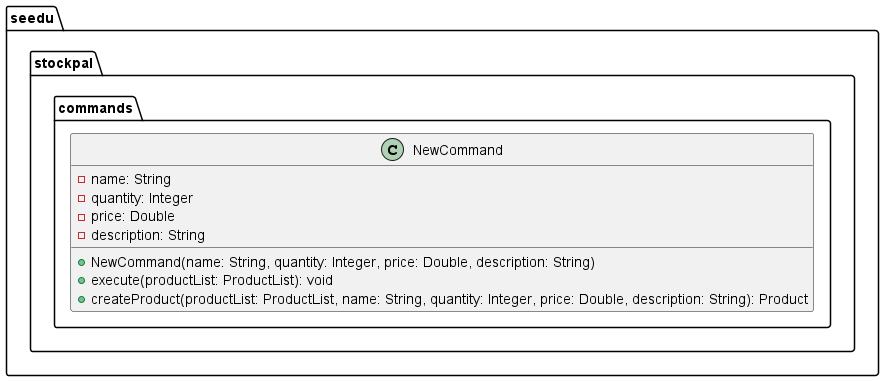
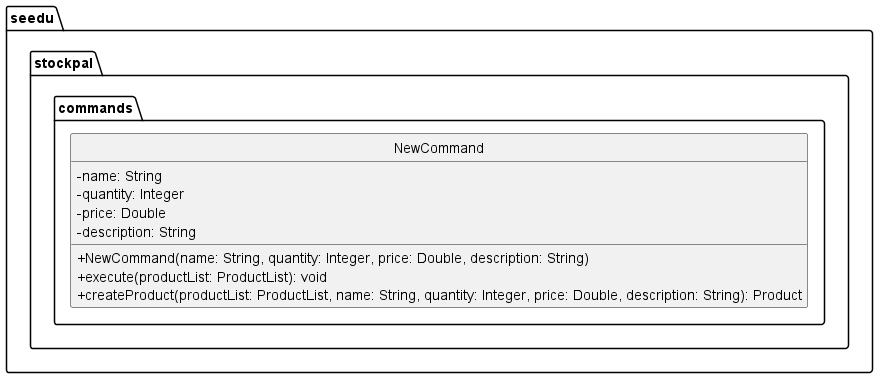
Updated find command to search substrings, fix output of history command, do testing for find command, changed DG

diff --git a/src/test/java/seedu/stockpal/commands/NewCommandTest.java b/src/test/java/seedu/stockpal/commands/NewCommandTest.java
@@ -8,6 +8,7 @@ import seedu.stockpal.exceptions.StockPalException;
 import static org.junit.jupiter.api.Assertions.assertEquals;
 import static org.junit.jupiter.api.Assertions.assertNull;
 
+//@@author EdmundTangg
 public class NewCommandTest {
     public ProductList productList;
 
@@ -22,10 +23,10 @@ public class NewCommandTest {
                 2.00, "ingredient");
         userInput.execute(productList);
 
-        assertEquals("chocolate",productList.getProducts().get(0).getName().getName());
-        assertEquals(100,productList.getProducts().get(0).getQuantity().getQuantity());
-        assertEquals(2.00,productList.getProducts().get(0).getPrice().getPrice());
-        assertEquals("ingredient",productList.getProducts().get(0).getDescription().getDescription());
+        assertEquals("chocolate", productList.getProducts().get(0).getName().getName());
+        assertEquals(100, productList.getProducts().get(0).getQuantity().getQuantity());
+        assertEquals(2.00, productList.getProducts().get(0).getPrice().getPrice());
+        assertEquals("ingredient", productList.getProducts().get(0).getDescription().getDescription());
         assertEquals(1, productList.getProducts().get(0).getPid().getPid());
     }
 
@@ -35,8 +36,8 @@ public class NewCommandTest {
                 100, null, null);
         userInput.execute(productList);
 
-        assertEquals("chocolate",productList.getProducts().get(0).getName().getName());
-        assertEquals(100,productList.getProducts().get(0).getQuantity().getQuantity());
+        assertEquals("chocolate", productList.getProducts().get(0).getName().getName());
+        assertEquals(100, productList.getProducts().get(0).getQuantity().getQuantity());
         assertNull(productList.getProducts().get(0).getPrice().getPrice());
         assertNull(productList.getProducts().get(0).getDescription().getDescription());
         assertEquals(1, productList.getProducts().get(0).getPid().getPid());
@@ -52,11 +53,10 @@ public class NewCommandTest {
                 null, null);
         userInput2.execute(productList);
 
-        assertEquals("chocolate",productList.products.get(0).getName().getName());
+        assertEquals("chocolate", productList.products.get(0).getName().getName());
         assertEquals(1, productList.products.get(0).getPid().getPid());
 
-        assertEquals("strawberry",productList.products.get(1).getName().getName());
+        assertEquals("strawberry", productList.products.get(1).getName().getName());
         assertEquals(2, productList.products.get(1).getPid().getPid());
     }
-
 }

diff --git a/src/test/java/seedu/stockpal/commands/FindCommandTest.java b/src/test/java/seedu/stockpal/commands/FindCommandTest.java
@@ -1,0 +1,59 @@
+package seedu.stockpal.commands;
+
+import org.junit.jupiter.api.BeforeEach;
+import org.junit.jupiter.api.Test;
+import seedu.stockpal.data.ProductList;
+import seedu.stockpal.exceptions.StockPalException;
+
+import java.io.ByteArrayOutputStream;
+import java.io.IOException;
+import java.io.PrintStream;
+import java.nio.file.Files;
+import java.nio.file.Paths;
+
+import static org.junit.jupiter.api.Assertions.assertEquals;
+
+//@@author EdmundTangg
+public class FindCommandTest {
+    public ProductList productList;
+    private static final String LOWERCASE_EXPECTED_OUTPUT = "src/test/data/FindCommandTest/LowerCaseMatch.txt";
+    private static final String NO_MATCH_EXPECTED_OUTPUT = "src/test/data/FindCommandTest/NoMatchesFound.txt";
+    private final ByteArrayOutputStream outContent = new ByteArrayOutputStream();
+
+    @BeforeEach
+    public void setUp() throws StockPalException{
+
+        System.setOut(new PrintStream(outContent));
+
+        productList = new ProductList();
+        NewCommand userInput = new NewCommand("Corn", 100,
+                2.00, "ingredient");
+        userInput.execute(productList);
+        NewCommand userInput2 = new NewCommand("Choco", 100,
+                2.00, "ingredient2");
+        userInput2.execute(productList);
+    }
+
+    public void verifyOutput(String expectedOutput) {
+        assertEquals(expectedOutput, outContent.toString());
+    }
+
+    @Test
+    public void findCommand_subString_expectBothProductsPrinted() throws StockPalException, IOException {
+        FindCommand command = new FindCommand("c");
+        command.execute(productList);
+        String expectedOutput = new String(Files.readAllBytes(Paths.get(LOWERCASE_EXPECTED_OUTPUT)));
+        verifyOutput(expectedOutput);
+    }
+
+    @Test
+    public void findCommand_noMatch_expectNoMatch() throws StockPalException, IOException {
+        FindCommand command = new FindCommand("abc");
+        command.execute(productList);
+        String expectedOutput = new String(Files.readAllBytes(Paths.get(NO_MATCH_EXPECTED_OUTPUT)));
+        verifyOutput(expectedOutput);
+    }
+
+
+
+}

diff --git a/src/main/java/seedu/stockpal/data/Transaction.java b/src/main/java/seedu/stockpal/data/Transaction.java
@@ -28,9 +28,15 @@ public class Transaction {
         DateTimeFormatter formatter = DateTimeFormatter.ofPattern("dd-MM-yyyy HH:mm:ss");
         String formattedDateTime = this.time.format(formatter);
 
+        if (this.changeInQuantity < 0) {
+            return (this.pid + separator
+                    + "Change in quantity: " + this.changeInQuantity + separator
+                    + "Date of outflow: " + formattedDateTime);
+        }
+
         return (this.pid + separator
                 + "Change in quantity: " + this.changeInQuantity + separator
-                + "Date of inflow/outflow: " + formattedDateTime);
+                + "Date of inflow: " + formattedDateTime);
     }
 
     public Pid getPid() {

diff --git a/src/main/java/seedu/stockpal/common/Messages.java b/src/main/java/seedu/stockpal/common/Messages.java
@@ -10,7 +10,7 @@ public class Messages {
             + "\n"
             + "Enter a command to begin.";
     public static final String MESSAGE_GOODBYE = "Exiting program, goodbye!";
-    public static final String MESSAGE_ADDED = "Product added!";
+    public static final String MESSAGE_ADDED = "Product has been added.";
     public static final String MESSAGE_REFER_TO_HELP = "For more information on the commands, use `help`.";
     public static final String MESSAGE_ERROR_INVALID_COMMAND = "Invalid command. " + MESSAGE_REFER_TO_HELP;
     public static final String MESSAGE_ERROR_INVALID_FORMAT = "Invalid format. " + MESSAGE_REFER_TO_HELP;

diff --git a/src/main/java/seedu/stockpal/commands/HistoryCommand.java b/src/main/java/seedu/stockpal/commands/HistoryCommand.java
@@ -28,7 +28,6 @@ public class HistoryCommand extends TransactionActionCommand {
 
     @Override
     public void execute(ProductList productList, TransactionList transactionList) throws StockPalException {
-        int productIndex = productList.findProductIndex(this.pid);
         TransactionList.findTransactions(transactionList, pid.getPid());
     }
 

diff --git a/src/main/java/seedu/stockpal/data/ProductList.java b/src/main/java/seedu/stockpal/data/ProductList.java
@@ -144,7 +144,7 @@ public class ProductList {
             Product product = products.get(i);
             String productName = product.getName().getName().toLowerCase();
 
-            if (productName.equals(keyword)) {
+            if (productName.contains(keyword)) {
                 findList.addProduct(product);
             }
         }

diff --git a/src/main/java/seedu/stockpal/StockPal.java b/src/main/java/seedu/stockpal/StockPal.java
@@ -56,6 +56,7 @@ public class StockPal {
         } while (true); // check if command is exit
     }
 
+    //@@author EdmundTangg
     /**
      * Checks the type of command.
      * @param command Command that the user entered.

diff --git a/docs/UserGuide.md b/docs/UserGuide.md
@@ -63,6 +63,13 @@ Not sure where to begin? Start by learning how to utilize this user guide.
 4.  In the command prompt terminal, run StockPal using the command `java
     -jar stockpal.jar`.
 
+# Glossary
+
+PID (Product ID) - a number that we use to keep track of the products.
+
+CLI (Command Line Interface) - a text-based interface used to interact with our program by entering commands into a terminal.
+
+CSV (Comma-Separated Values) - a file format used to store tabular data. Each line represents a row of data, and each field within a row is separated by a comma
 
 ## Features 
 > ## Notes about the command format
@@ -77,6 +84,56 @@ Not sure where to begin? Start by learning how to utilize this user guide.
 List all available commands supported by Stockpal.
 
 Format: `help`
+
+## Adding a new product: `new`
+
+Creates a new product to the inventory and assigns a unique Product ID (PID) to it.
+
+### When to use?
+
+When starting as a new user of StockPal, use this command repeatedly to fill up your inventory to start tracking!
+Subsequently, when your business introduces new products, use this command to add them in too!
+
+
+Format: `new n/PRODUCT_NAME q/INITIAL_QUANTITY [p/PRICE] [d/DESCRIPTION]`
+
+- PRODUCT_NAME is limited to 100 characters.
+- INITIAL_QUANTITY must be an integer more than or equal to 0.
+- PRICE must have an integer more than or equal to 0, and have exactly 2 decimal places.
+- DESCRIPTION is limited to 100 characters.
+
+### Example 1
+Input:
+
+```new n/Drinking Cup q/20 ```
+
+Output:
+
+```Product has been added.```
+
+Explanation:
+
+This command adds your product to the inventory. The product’s details are as follows:
+- name of the product is `Drinking Cup`
+- Quantity of chocolate Milk stock is `20` units
+
+
+### Example 2
+Input:
+
+```new n/Chocolate Milk q/100 p/2.00 d/Marigold HL Milk```
+
+Output:
+
+```Product has been added.```
+
+Explanation:
+
+This command adds your product to the inventory. The product’s details are as follows:
+- name of the product is `Chocolate Milk`
+- Quantity of chocolate Milk stock is `100` units
+- Price of each unit is `$2.00`
+- Description of the Chocolate Milk product is `Marigold HL Milk`, which is the brand
 
 
 ## Editing product details: `edit`
@@ -157,10 +214,3 @@ Output:
 **A**: Install the app on the other computer and overwrite the empty `inventory.csv` file it creates with the file that contains the data of your previous StockPal home folder.
 
 
-# Glossary
-
-PID (Product ID) - a number that we use to keep track of the products.
-
-CLI (Command Line Interface) - a text-based interface used to interact with our program by entering commands into a terminal.
-
-CSV (Comma-Separated Values) - a file format used to store tabular data. Each line represents a row of data, and each field within a row is separated by a comma

diff --git a/docs/DeveloperGuide.md b/docs/DeveloperGuide.md
@@ -120,10 +120,13 @@ Exceptions classes used by multiple components are in the `seedu.stockpal.except
 
 This section describes some noteworthy details on how certain features are implemented.
 
-### Add new product feature
-<img src="images/AddCommandClass.png" alt=""/>
+### Add product feature
 
 The NewCommand class is responsible for adding a new product to the inventory in the StockPal application.
+
+#### Class diagram of NewCommand:
+<img src="images/AddCommandClass.png" alt=""/>
+
 
 **Attributes**
 * name: The name of the product.
@@ -136,8 +139,11 @@ The NewCommand class is responsible for adding a new product to the inventory in
 * `execute`: Method to add the new product to the product list.
 * `createProduct`: Method to create a new product with a unique product ID.
 
-The following sequence diagram shows how an add operation works:
-<img src="images/AddCommandSequence.png" alt=""/>
+The following sequence diagram shows how an add operation works when the user inputs a valid `add` command:
+<img src="images/AddCommandSequence.png" alt="AddCommandSequence.png"/>
+
+The following sequence diagram details how `AddCommand#execute()` functions.
+<img src="images/AddCommandExecuteSequenceDiagram.png" alt="AddCommandExecuteSequenceDiagram.png"/>
 
 
 ### Edit product feature
